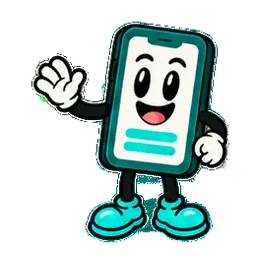
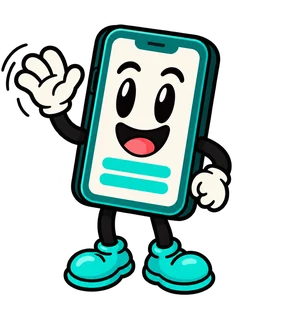
Tutorial: le 7 immagini della mascotte per ogni passo del tour

diff --git a/sw.js b/sw.js
@@ -1,9 +1,9 @@
 /* Divvy — service worker.
    Shell (html/js/css): prima la rete, cache solo se offline → gli aggiornamenti si vedono subito.
    Immagini, icone, font: prima la cache. Supabase: mai toccato. */
-const VERSION = 'pari-v1.43.8';
+const VERSION = 'pari-v1.43.9';
 const SHELL = [
-  './', './index.html', './style.css', './app.js', './i18n.js', './img/traguardi/coppa.webp', './img/traguardi/mondo.webp', './img/traguardi/vetta.webp', './img/traguardi/sdraio.webp', './img/traguardi/pesi.webp', './img/traguardi/calendario.webp', './img/traguardi/moneta.webp', './img/traguardi/scontrino.webp', './img/traguardi/categorie.webp', './img/traguardi/torta.webp', './img/traguardi/salvadanaio.webp', './img/traguardi/tresalvadanai.webp', './img/traguardi/palloncino.webp', './img/traguardi/settimane.webp', './img/traguardi/sei.webp', './img/traguardi/compleanno.webp', './img/traguardi/sveglia.webp', './img/traguardi/mattino.webp', './img/traguardi/notte.webp', './img/traguardi/turno.webp', './img/traguardi/bilancia.webp', './img/traguardi/team.webp', './img/traguardi/collezione.webp', './img/traguardi/lingue.webp', './img/traguardi/scansione.webp', './img/scansione.webp', './img/missione.webp', './img/levelup-sfondo-2.webp', './img/levelup-stella.webp', './img/levelup-mascotte.webp', './img/tutorial/ciao.webp', './manifest.webmanifest',
+  './', './index.html', './style.css', './app.js', './i18n.js', './img/traguardi/coppa.webp', './img/traguardi/mondo.webp', './img/traguardi/vetta.webp', './img/traguardi/sdraio.webp', './img/traguardi/pesi.webp', './img/traguardi/calendario.webp', './img/traguardi/moneta.webp', './img/traguardi/scontrino.webp', './img/traguardi/categorie.webp', './img/traguardi/torta.webp', './img/traguardi/salvadanaio.webp', './img/traguardi/tresalvadanai.webp', './img/traguardi/palloncino.webp', './img/traguardi/settimane.webp', './img/traguardi/sei.webp', './img/traguardi/compleanno.webp', './img/traguardi/sveglia.webp', './img/traguardi/mattino.webp', './img/traguardi/notte.webp', './img/traguardi/turno.webp', './img/traguardi/bilancia.webp', './img/traguardi/team.webp', './img/traguardi/collezione.webp', './img/traguardi/lingue.webp', './img/traguardi/scansione.webp', './img/scansione.webp', './img/missione.webp', './img/levelup-sfondo-2.webp', './img/levelup-stella.webp', './img/levelup-mascotte.webp', './img/tutorial/ciao.webp', './img/tutorial/spesa.webp', './img/tutorial/scontrino.webp', './img/tutorial/saldi.webp', './img/tutorial/budget.webp', './img/tutorial/missioni.webp', './img/tutorial/pronto.webp', './manifest.webmanifest',
   './icons/icon-192.png', './icons/icon-512.png', './icons/apple-touch-icon.png', './icons/favicon.png',
   './img/luca.png', './img/martina.png', './img/luca-avatar.png', './img/martina-avatar.png', './img/coppia.png', './img/nessuna-spesa.png', './img/luca-deve.png', './img/martina-deve.png', './img/logo.png', './img/benvenuto.png', './img/benvenuto-2.png', './img/benvenuto-3.png', './img/benvenuto-4.png', './img/registrati.png', './img/conferma.png', './img/invito.png', './img/avatar-1.png', './img/avatar-2.png', './img/avatar-3.png', './img/avatar-4.png', './img/avatar-5.png', './img/fatto.png'
 ];

diff --git a/app.js b/app.js
@@ -5,7 +5,7 @@
 (() => {
 'use strict';
 
-const APP_VERSION = '1.43.8';
+const APP_VERSION = '1.43.9';
 const KEY = 'pari:v1';
 /* Progetto Supabase "divvy": indirizzo e chiave pubblica (anon) sono pensati per stare nel client; la privacy è nel codice casa */
 const SUPA_URL = 'https://odvbwrrpbkuqccoprrrc.supabase.co';
